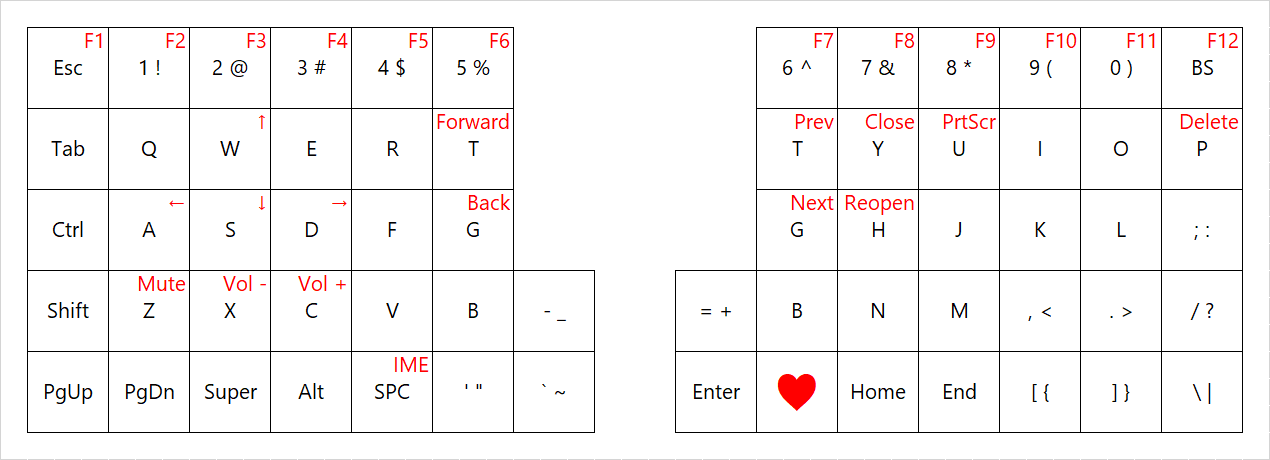
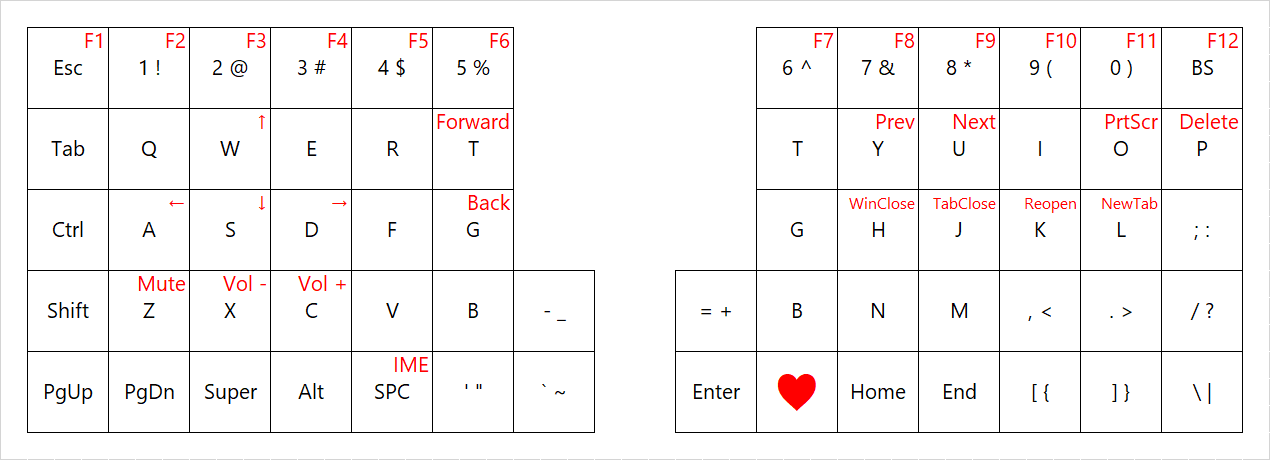
Layout update: Nav keys

Changed region(s): [[0.6142, 0.4261, 0.9213, 0.4565], [0.6142, 0.2435, 0.7984, 0.3043], [0.8598, 0.2435, 0.9213, 0.2739]]

diff --git a/keyboards/helix/rev2/keymaps/default/keymap.c b/keyboards/helix/rev2/keymaps/default/keymap.c
@@ -35,10 +35,12 @@ enum custom_keycodes {
   IME,
   NEXT,
   PREV,
-  CLOSE,
+  TCLOSE,
   REOPEN,
   FORWARD,
   BACK,
+  WCLOSE,
+  NEWTAB,
 };
 
 enum macro_keycodes {
@@ -55,19 +57,6 @@ enum macro_keycodes {
 #if HELIX_ROWS == 5
 const uint16_t PROGMEM keymaps[][MATRIX_ROWS][MATRIX_COLS] = {
 
-  /* Qwerty
-   * ,-----------------------------------------.             ,-----------------------------------------.
-   * | Esc  |   1  |   2  |   3  |   4  |   5  |             |   6  |   7  |   8  |   9  |   0  | Bksp |
-   * |------+------+------+------+------+------|             |------+------+------+------+------+------|
-   * | Tab  |   Q  |   W  |   E  |   R  |   T  |             |   T  |   Y  |   U  |   I  |   O  |   P  |
-   * |------+------+------+------+------+------|             |------+------+------+------+------+------|
-   * | Ctrl |   A  |   S  |   D  |   F  |   G  |             |   G  |   H  |   J  |   K  |   L  |   ;  |
-   * |------+------+------+------+------+------+------+------+------+------+------+------+------+------|
-   * | Shift|   Z  |   X  |   C  |   V  |   B  |   -  |   =  |   B  |   N  |   M  |   ,  |   .  |   /  |
-   * |------+------+------+------+------+------+------+------+------+------+------+------+------+------|
-   * |PageUp|PageDn| GUI  | Alt  |Space |   '  |   `  |Enter |Raise | Home | End  |   [  |   ]  |   \  |
-   * `-------------------------------------------------------------------------------------------------'
-   */
   [_QWERTY] = KEYMAP( \
       KC_ESC,  KC_1,    KC_2,    KC_3,    KC_4,    KC_5,                      KC_6,    KC_7,    KC_8,    KC_9,    KC_0,    KC_BSPC, \
       KC_TAB,  KC_Q,    KC_W,    KC_E,    KC_R,    KC_T,                      KC_T,    KC_Y,    KC_U,    KC_I,    KC_O,    KC_P, \
@@ -76,23 +65,10 @@ const uint16_t PROGMEM keymaps[][MATRIX_ROWS][MATRIX_COLS] = {
       KC_PGUP, KC_PGDN, KC_LGUI, KC_LALT, KC_SPC,  KC_QUOT, KC_GRV,  KC_ENT,  RAISE,   KC_HOME, KC_END,  KC_LBRC, KC_RBRC, KC_BSLS \
       ),
 
-  /* Raise
-   * ,-----------------------------------------.             ,-----------------------------------------.
-   * |  F1  |  F2  |  F3  |  F4  |  F5  |  F6  |             |  F7  |  F8  |  F9  |  F10 |  F11 |  F12 |
-   * |------+------+------+------+------+------|             |------+------+------+------+------+------|
-   * |      |      |  Up  |      |      |  Fwd |             | Prev |Close |PrtScr|      |      |  Del |
-   * |------+------+------+------+------+------|             |------+------+------+------+------+------|
-   * |      | Left | Down |Right |      | Back |             | Next |Reopen|      |      |      |      |
-   * |------+------+------+------+------+------+------+------+------+------+------+------+------+------|
-   * |      | Mute | Vol- | Vol+ |      |      |      |      |      |      |      |      |      |      |
-   * |------+------+------+------+------+------+------+------+------+------+------+------+------+------|
-   * |      |      |      |      |  IME |      |      |      |      |      |      |      |      |      |
-   * `-------------------------------------------------------------------------------------------------'
-   */
   [_RAISE] = KEYMAP( \
       KC_F1,   KC_F2,   KC_F3,   KC_F4,   KC_F5,   KC_F6,                     KC_F7,   KC_F8,   KC_F9,   KC_F10,  KC_F11,  KC_F12, \
-      _______, _______, KC_UP,   _______, _______, FORWARD,                   PREV,    CLOSE,   KC_PSCR, KC_9,    _______, KC_DEL, \
-      _______, KC_LEFT, KC_DOWN, KC_RGHT, _______, BACK,                      NEXT,    REOPEN,  _______, _______, _______, _______, \
+      _______, _______, KC_UP,   _______, _______, FORWARD,                   _______, PREV,    NEXT,    KC_9,    KC_PSCR, KC_DEL, \
+      _______, KC_LEFT, KC_DOWN, KC_RGHT, _______, BACK,                      _______, WCLOSE,  TCLOSE,  REOPEN,  NEWTAB,  _______, \
       _______, KC_MUTE, KC_VOLD, KC_VOLU, _______, _______, _______, _______, _______, _______, _______, _______, _______, _______, \
       _______, _______, _______, _______, IME,     _______, _______, _______, _______, _______, _______, _______, _______, _______ \
       )
@@ -145,7 +121,7 @@ bool process_record_user(uint16_t keycode, keyrecord_t *record) {
         SEND_STRING(SS_LCTRL(SS_TAP(X_PGUP)));
       }
       return false;
-    case CLOSE:
+    case TCLOSE:
       if (record->event.pressed) {
         SEND_STRING(SS_LCTRL("w"));
       }
@@ -163,6 +139,16 @@ bool process_record_user(uint16_t keycode, keyrecord_t *record) {
     case BACK:
       if (record->event.pressed) {
         SEND_STRING(SS_LALT(SS_TAP(X_LEFT)));
+      }
+      return false;
+    case WCLOSE:
+      if (record->event.pressed) {
+        SEND_STRING(SS_LALT(SS_TAP(X_F4)));
+      }
+      return false;
+    case NEWTAB:
+      if (record->event.pressed) {
+        SEND_STRING(SS_LCTRL("t"));
       }
       return false;
   }
